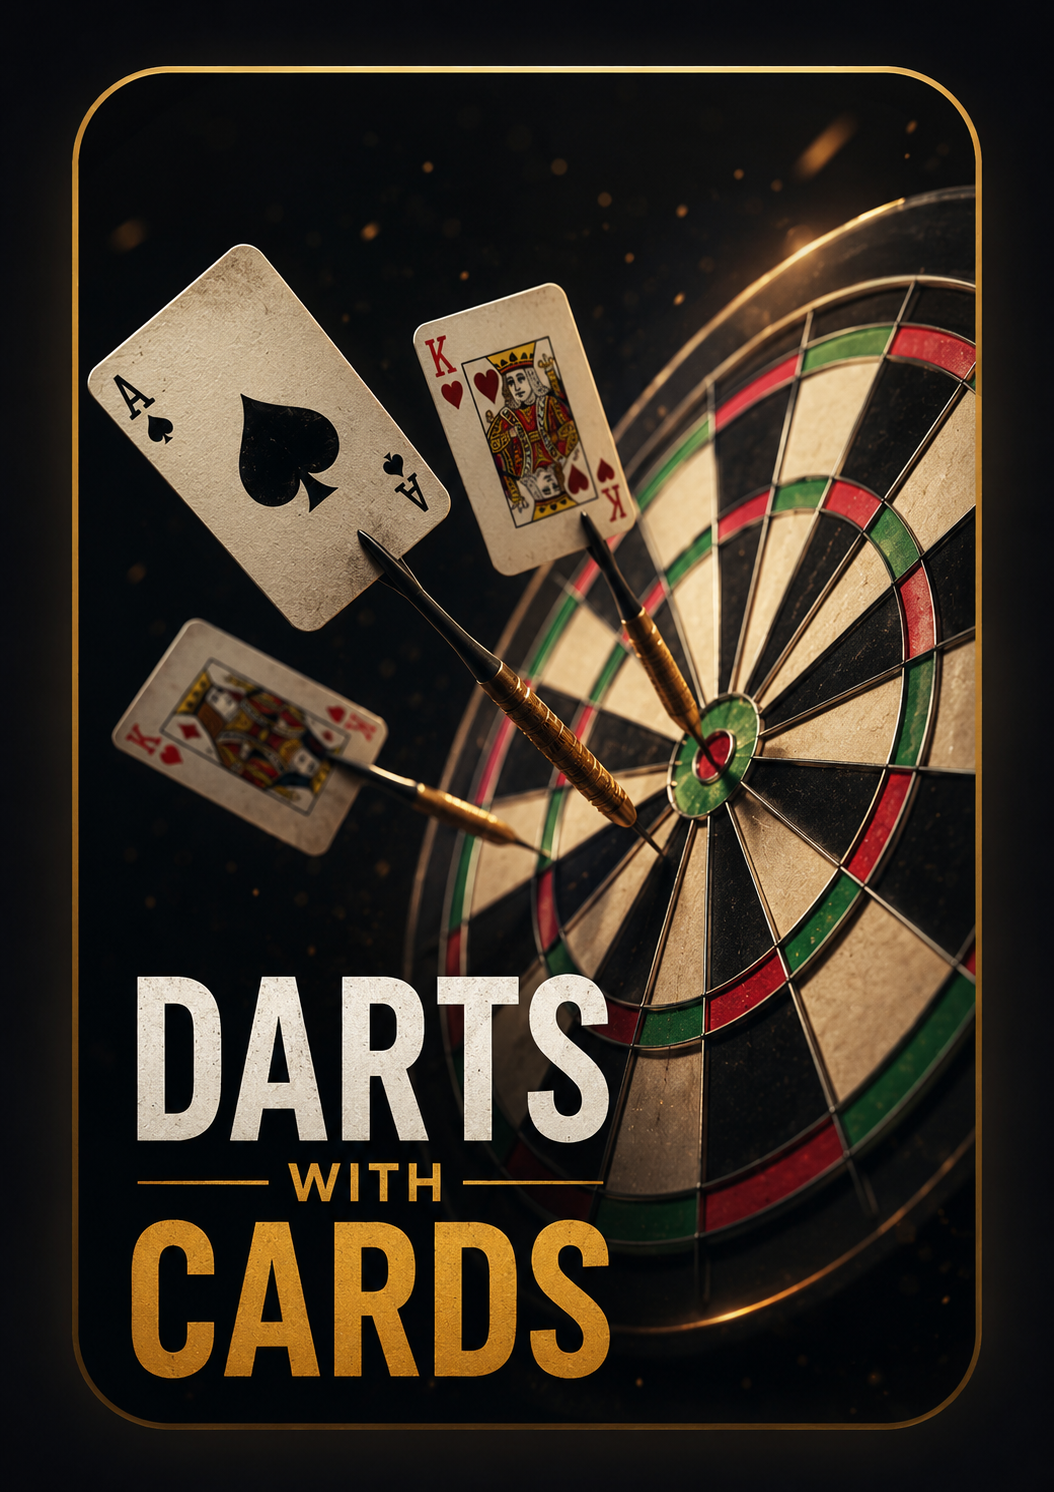
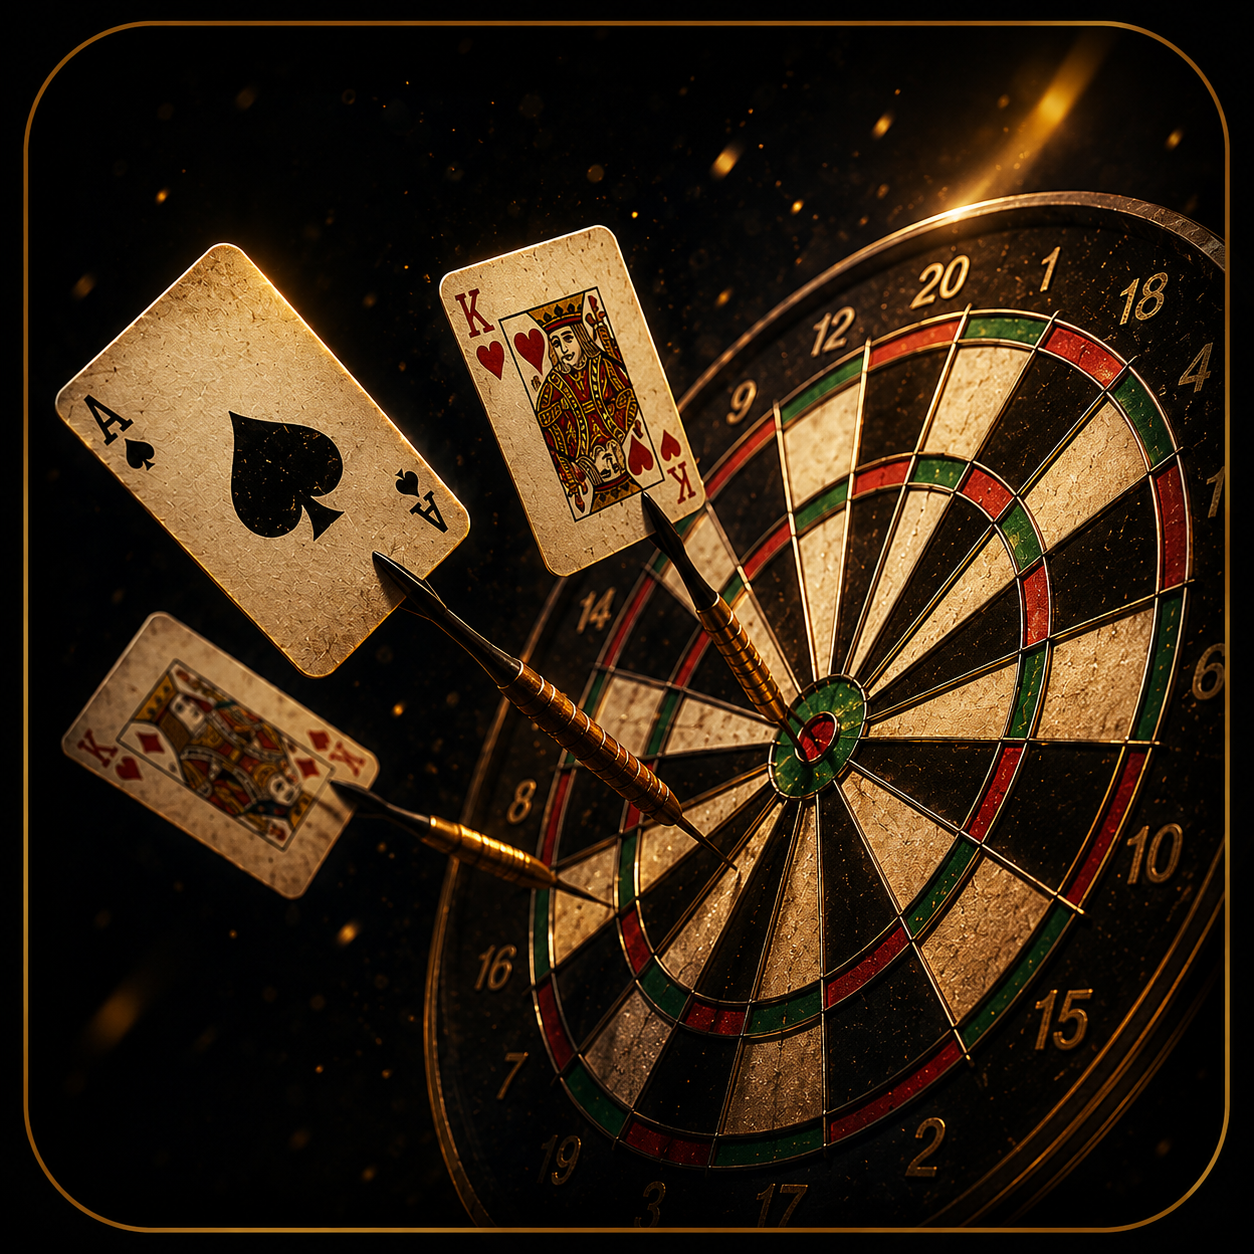
Cardpong & Darts with Cards: echte quadratische Cover-Bilder
Ersetzt die bisherigen Hochformat-Cover (per CSS-Zuschnitt in die
quadratische Home-Kachel gepresst, dabei Textartefakte/verlorenes Motiv)
durch neue, eigens quadratische (1254x1254), textfreie GPT-Image-Motive —
gleiche Machart wie Kings Cup/Pferderennen/Busfahrer. Kachel-Zuschnitt-
Sonderfall (background-position) dadurch nicht mehr nötig.

diff --git a/index.html b/index.html
@@ -903,21 +903,13 @@ input[type=text]:focus, input[type=number]:focus{outline:1px solid var(--gold);}
    CARD DARTS — dark arcade dartboard built entirely from
    programmatic layers (no static board image per player count).
 =========================================================== */
-/* cover-cd.png hat einen eigenen Titel-Schriftzug eingebrannt, der aber je
-   nach Kachel-Zuschnitt (portraitiges Referenzbild in einer breiten/kurzen
-   Kachel via background:cover) teils gar nicht sichtbar ist oder mit dem
-   HTML-Titel kollidieren würde. Für ein einheitliches Bild wie bei
-   kc/pf/bf: kräftigerer Gradient blendet den Bildtext ab, der HTML-Titel
-   übernimmt (gleicher Stil wie die anderen 3 Spiele). */
+/* cover-cd.png: seit 17.08.26 ein eigens quadratisches (1254x1254), textfreies
+   GPT-Image-Motiv (Dartboard + Karten), analog zu kc/pf/bf — kein Zuschnitt-
+   Sonderfall mehr nötig. Gradient bleibt für einheitlichen Titel-Kontrast. */
 .cover-cd{
-  /* Quell-Bild ist Hochformat (1054x1492), die quadratische Kachel zeigte per
-     mittigem Zuschnitt zu wenig vom Dartboard und einen Rest des eingebrannten
-     Titeltexts ("...RTS") am unteren Rand. Zuschnitt nach oben verschoben,
-     damit Dartboard/Karten (der eigentliche Blickfang) voll sichtbar sind
-     und der Textrest komplett rausfällt (Titel kommt ohnehin per HTML). */
   background:
     linear-gradient(to top, rgba(10,8,20,0.92), rgba(10,8,20,0.35) 42%, rgba(10,8,20,0.1) 62%, transparent),
-    url('assets/cover-cd.png') center 12% / cover;
+    url('assets/cover-cd.png') center/cover;
 }
 .cover-cd .glyph{ display:none; }
 
@@ -1113,17 +1105,13 @@ input[type=text]:focus, input[type=number]:focus{outline:1px solid var(--gold);}
    bewusst von der App-Palette abweicht — dieselbe Konvention wie
    bei Card Darts' eigenem Dartboard-Look.
 =========================================================== */
-/* Gleiche Überlegung wie bei cover-cd (siehe Kommentar dort): kräftigerer
-   Gradient blendet den eingebrannten Bildtext ab, HTML-Titel übernimmt
-   einheitlich wie bei kc/pf/bf. */
+/* cover-cp.png: seit 17.08.26 ein eigens quadratisches (1254x1254), textfreies
+   GPT-Image-Motiv (Becherpyramide + fliegende Karte, Blau/Rot-Neon), analog
+   zu kc/pf/bf — kein Zuschnitt-Sonderfall mehr nötig. */
 .cover-cp{
-  /* Gleicher Grund wie bei cover-cd: Hochformat-Quellbild (1051x1496), Zuschnitt
-     nach oben verschoben auf die Becher-Pyramide + fliegende Karte (der
-     eigentliche Blickfang) statt den unteren Bereich mit dem eingebrannten
-     "CARD PONG"-Schriftzug mittig anzuschneiden. */
   background:
     linear-gradient(to top, rgba(8,8,16,0.92), rgba(8,8,16,0.35) 42%, rgba(8,8,16,0.1) 62%, transparent),
-    url('assets/cover-cp.png') center 18% / cover;
+    url('assets/cover-cp.png') center/cover;
 }
 .cover-cp .glyph{ display:none; }
 

diff --git a/sw.js b/sw.js
@@ -1,7 +1,7 @@
 // Stammtisch — Service Worker
 // Cacht die App beim ersten Laden, damit sie danach auch ohne Internet
 // startet und funktioniert (die Spiele selbst brauchen ohnehin kein Netz).
-const CACHE_NAME = 'stammtisch-v30';
+const CACHE_NAME = 'stammtisch-v31';
 const APP_SHELL = [
   './',
   './index.html',
